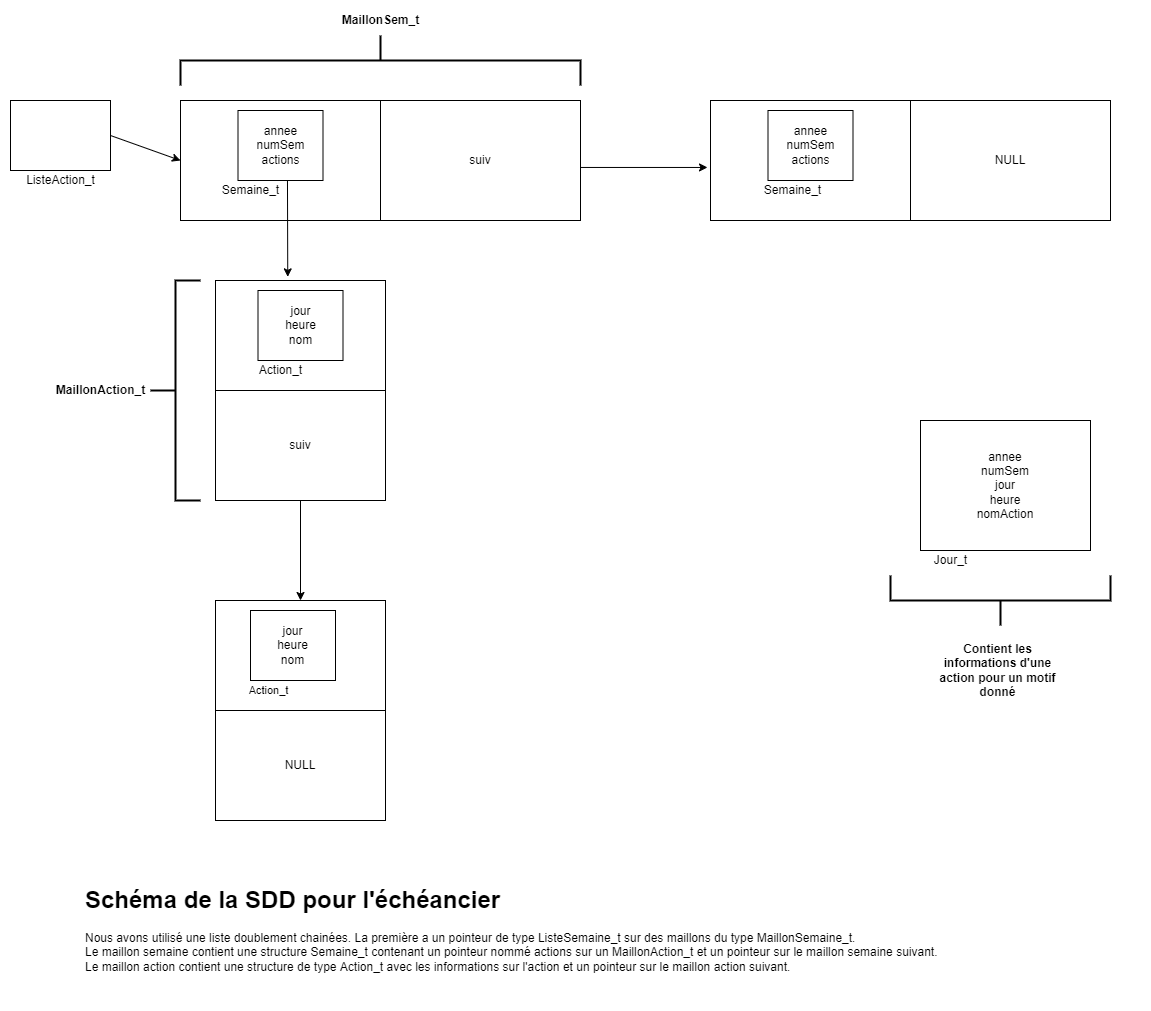
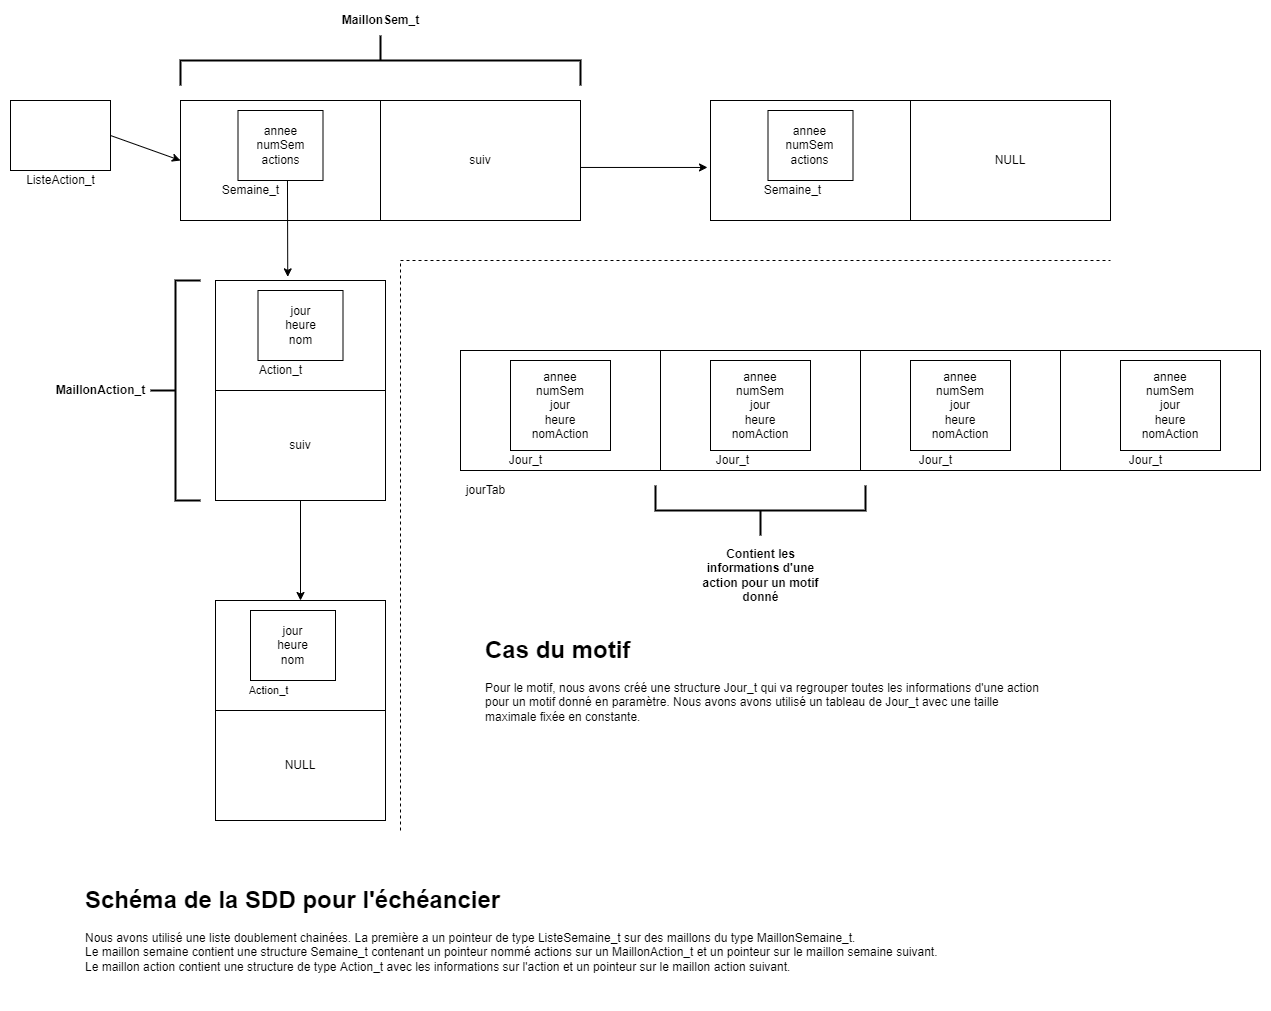
ajout test, fonction suppMaillonSemaine + schemas

diff --git a/test.c b/test.c
@@ -1,0 +1,122 @@
+/**
+ * @file test.c
+ * @author Paul BONHOMME & Rime LAMRANI (paul.bonhomme@etu.uca.fr & rime.lamrani@etu.uca.fr)
+ * @brief fichier .c : fonction de test complet du projet
+ * @version 0.1
+ * @date 2022-03-03
+ * 
+ * @copyright Copyright (c) 2022
+ * 
+ */
+
+#include "jour.h"
+
+void mainTest(ListeSem_t liste)
+{
+	int        nbJour, jourASupp; // choix de l'utilisateur, nombre de jour trouvé pour un motif donné et jour à supprimer
+    char       motif[11], anneeASupp[11], numSemASupp[3], heureASupp[3]; // motif donné par l'utilisateur, Annee a supprimer, numero de semaine a supprimer, heure a supprimer
+
+    Jour_t     jourTab[MAX_JOUR], * finJourTab; // initialisation tableau de jours statique et pointeur de fin
+
+    finJourTab = &jourTab[MAX_JOUR]; // affectation du pointeur de fin du tableau de jour
+
+    printf("\n\n═════════════════════INITIALISATION ET LECTURE DU FICHIER═════════════════════\n");
+
+    printf("\nAppuyez sur entrée pour afficher la liste des semaines\n");
+    getchar();
+	while( getchar() != '\n' );
+
+	printf("\n\n═════════════════════AFFICHAGE DE LA LISTE DES SEMAINES═════════════════════\n");
+    afficherListeSem(liste);
+
+	printf("\n\n═════════════════════SUPPRESSION DE DEUX ACTIONS═════════════════════\n");
+    printf("\nNous allons supprimer le tp de physique et le tp de systeme de la liste puis afficher la liste à nouveau\n");
+
+    printf("Appuyer sur entrée pour supprimer : \n");
+	while( getchar() != '\n' );
+
+	// PREMIERE ACTION
+	strcpy(anneeASupp, "2023"); // TP de physique
+	strcpy(numSemASupp, "05");
+	jourASupp = 3;
+	strcpy(heureASupp, "02");
+
+	if(supprimerAction(liste, anneeASupp, numSemASupp, jourASupp, heureASupp))
+    {
+        liste = supprimerMaillonSemaine(liste, anneeASupp, numSemASupp);
+    }
+
+    // DEUXIEME ACTION
+	strcpy(anneeASupp, "2019"); // TP de systeme
+	strcpy(numSemASupp, "06");
+	jourASupp = 1;
+	strcpy(heureASupp, "08");
+
+	if(supprimerAction(liste, anneeASupp, numSemASupp, jourASupp, heureASupp))
+    {
+        liste = supprimerMaillonSemaine(liste, anneeASupp, numSemASupp);
+    }
+
+	afficherListeSem(liste);
+	printf("\nNous pouvons voir que les deux actions ont bien été supprimées de la liste\n");
+	printf("De plus, on voit que la semaine 06 de 2019 a été supprimée de la liste car elle ne contenait plus d'action\n");
+
+	printf("\n\n═════════════════════AFFICHAGE JOUR AVEC MOTIF═════════════════════\n");
+	printf("\nNous allons maintenant afficher les actions contenant un motif, nous choisissons le motif \"C\", nous devrions avoir TP de C et TP de C++\n");
+	printf("Appuyer sur entrée pour afficher le tableau de jours au motif \"C\" :\n");
+	while( getchar() != '\n' );
+
+	// MOTIF "C"
+	strcpy(motif, "C");
+	nbJour = tableauParMotif(motif, liste, jourTab, finJourTab);
+	afficherTableauParMotif(jourTab, motif, nbJour);
+
+	printf("Nous voulons le motif \"TP\", nous en aurons 7 au maximum car nous venons de  supprimer les TP de physique et de systeme \n");
+	printf("Appuyer sur entrée pour afficher le tableau de jours au motif \"TP\" : \n");
+	while( getchar() != '\n' );
+
+	// MOTIF "TP"
+	strcpy(motif, "TP");
+	nbJour = tableauParMotif(motif, liste, jourTab, finJourTab);
+	afficherTableauParMotif(jourTab, motif, nbJour);
+
+	printf("\n\n═════════════════════SAUVEGARDE DANS UN FICHIER═════════════════════\n");
+	printf("\nNous allons maintenant sauvegarder les données dans le fichier \"sauvegarde.txt\"\n");
+	printf("Appuyer sur entrée pour sauvegarder : \n");
+	while( getchar() != '\n' );
+
+
+	sauvegarder("sauvegarde.txt", liste); // SAUVEGARDE
+	printf("\nOn remarque que les lignes pour le TP de physique et le TP de systeme ne sont pas présentes.\nOuvrez le fichier de sauvegarde pour vérifier et cliquez sur entrée pour continuer.\n");
+	while( getchar() != '\n' );
+
+	printf("\n\n═════════════════════CAS D'ERREURS═════════════════════\n");
+	printf("\nNous allons maintenant tester différents cas d'erreurs.\n");
+
+	printf("\nCas où aucune action ne contient un motif donné :\n");
+	printf("Appuyer sur entrée pour afficher le tableau de jours au motif \"test_err\" :\n");
+	while( getchar() != '\n' );
+	strcpy(motif, "test_err");
+	nbJour = tableauParMotif(motif, liste, jourTab, finJourTab);
+	afficherTableauParMotif(jourTab, motif, nbJour);
+
+
+	printf("\nCas où l'action de l'année 2048 à supprimer n'existe pas : \n");
+	printf("Appuyer sur entrée pour continuer : \n");
+	while( getchar() != '\n' );
+
+	strcpy(anneeASupp, "2048"); // Action inexistante
+	strcpy(numSemASupp, "06");
+	jourASupp = 1;
+	strcpy(heureASupp, "08");
+
+	if(supprimerAction(liste, anneeASupp, numSemASupp, jourASupp, heureASupp))
+    {
+        liste = supprimerMaillonSemaine(liste, anneeASupp, numSemASupp);
+    }
+	printf("\nOn peut voir que l'action a été detectée comme inexistante par l'algorithme.\n");
+
+	printf("\n\n═════════════════════FIN DE LA SERIE DE TEST═════════════════════\n");
+	libererSemaines(liste);
+
+}

diff --git a/semaine.c b/semaine.c
@@ -282,8 +282,10 @@ heure : heure de l'action a supprimer ;
 En sortie: void
 
  -------------------------------------------------------------------- */
-void supprimerAction(ListeSem_t liste, char* annee, char* numSem, int jour, char* heure)
+Boolen_t supprimerAction(ListeSem_t liste, char* annee, char* numSem, int jour, char* heure)
 {   
+    Boolen_t listeActionVide = faux; // permet de savoir si l'action a été supprimée quand on parcours la liste
+
     if(rechSemaineAction(liste, annee, numSem, jour, heure)) // si l'action existe dans la liste
     {
         while(liste!=NULL)
@@ -291,14 +293,17 @@ void supprimerAction(ListeSem_t liste, char* annee, char* numSem, int jour, char
             if(strcmp((liste->semaine).annee, annee) == 0 && strcmp((liste->semaine).numSem, numSem) == 0) // si on trouve la semaine voulue
             {
                 (liste->semaine).actions = supprimerMaillonAction((liste->semaine).actions, jour, heure); // suppression de l'action dans la liste d'actions
+                listeActionVide = videListeAction((liste->semaine).actions); // si la liste des actions est vide après suppression on notifie que l'on doit supprimer la semaine de la liste
             }
-            liste=liste->suiv;
+            liste = liste->suiv;
         }
-        printf("La suppression a ete effectuee");
+        printf("La suppression a ete effectuee\n");
     }
     else{
-        printf("L'action a supprimer n'existe pas");
+        printf("L'action a supprimer n'existe pas\n");
     }
+
+    return listeActionVide;
 }
 
 /* --------------------------------------------------------------------
@@ -320,6 +325,36 @@ ListeSem_t supprimerEnTeteSemaine(ListeSem_t liste)
     maillonSemTemp = liste; // recuperation de la semaine en tête de liste
     liste = liste->suiv; // on avance la liste sur le maillon suivant
     free(maillonSemTemp); // on libere le maillon en tete
+    return liste;
+}
+
+/* --------------------------------------------------------------------
+supprimerMaillonSemaine : Supprime la semaine en fonction de l'année et du numéro de semaine
+ 
+En entrée: 
+liste : la liste des actions ; 
+annee : annee de la semaine ; 
+heure : numero de la semaine ;
+
+En sortie: La liste avec l'element supprimé ou non
+
+ -------------------------------------------------------------------- */
+ListeSem_t supprimerMaillonSemaine(ListeSem_t liste, char* annee, char* numSem)
+{   
+    Semaine_t semaineTemp;
+
+    if(videListeSem(liste)) // si la liste est vide, on retourne la liste
+        return liste;
+
+    semaineTemp = tete(liste);
+    if(semaineTemp.annee > annee) // si l'annee en tete est > a l'annee voulue -> semaine pas dans la liste
+        return liste;
+    if(strcmp(semaineTemp.annee, annee) && strcmp(semaineTemp.numSem, numSem) > 0) // si le jour en tete est = au jour voulu et l'heure > -> action pas dans la liste
+        return liste;
+    if(strcmp(semaineTemp.annee, annee) == 0 && strcmp(semaineTemp.numSem, numSem) == 0) // si la tete vaut la semaine voulue
+        return supprimerEnTeteSemaine(liste); // on la supprime
+
+    liste->suiv=supprimerMaillonSemaine(liste->suiv, annee, numSem); // appel recursif
     return liste;
 }
 

diff --git a/main.c b/main.c
@@ -24,7 +24,9 @@ void affichMenu(void)
     printf("\t║                                                                           ║\n");
     printf("\t║\t4- Suppression d'une action                                         ║\n");
     printf("\t║                                                                           ║\n");
-    printf("\t║\t5- Quitter                                                          ║\n");
+    printf("\t║\t5- Lancer la série de tests                                         ║\n");
+    printf("\t║                                                                           ║\n");
+    printf("\t║\t6- Quitter                                                          ║\n");
     printf("\t║                                                                           ║\n");
     printf("\t╚═══════════════════════════════════════════════════════════════════════════╝\n\n");
 }
@@ -48,10 +50,9 @@ void menu(char* nomFichier){
             printf("Tapez votre choix :\n");
             scanf("%d",&choix);
             getchar();
-
         }
 
-    while(choix>0 && choix<6)
+    while(choix>0 && choix<7)
     {
         switch(choix)
         {
@@ -87,9 +88,15 @@ void menu(char* nomFichier){
                 printf("Donnez l'heure de l'action à supprimer :\n");
                 scanf("%s", heureASupp);
 
-                supprimerAction(liste, anneeASupp, numSemASupp, jourASupp, heureASupp);
+                if(supprimerAction(liste, anneeASupp, numSemASupp, jourASupp, heureASupp)) // si la semaine contenant l'action à supprimer ne contient plus d'action 
+                {
+                    liste = supprimerMaillonSemaine(liste, anneeASupp, numSemASupp); // on supprime cette semaine vide de la liste
+                }
                 break;
             case 5:
+                mainTest(liste);
+                break;
+            case 6:
                 libererSemaines(liste);
                 exit(0);
                 break;

diff --git a/jour.c b/jour.c
@@ -67,12 +67,17 @@ En sortie: void
 void afficherTableauParMotif(Jour_t jourTab[], char* motif, int nbJour)
 {
 	int i = 0;
-	printf("Liste des jours contenant le motif : %s\n", motif);
-	printf("nbJour : %d\n", nbJour);
-	for(i = 0; i < nbJour; i++)
+	if(nbJour != 0)
 	{
+		printf("Liste des jours contenant le motif : \"%s\"\n", motif);
+		printf("nbJour : %d\n", nbJour);
+		for(i = 0; i < nbJour; i++)
+		{
+			printf("\n┈┈┈┈┈┈┈┈┈┈┈┈┈┈┈┈┈┈┈┈┈┈┈┈┈┈┈┈┈┈┈┈┈┈┈┈┈┈┈┈┈┈┈┈┈┈┈┈┈┈┈┈┈┈┈┈┈┈\n");
+    		printf("\nNom de l\'action : %s\nAnnee : %s\t Semaine : %s\t Jour : %d\t Heure : %s\n",jourTab[i].nomAction, jourTab[i].annee, jourTab[i].numSem, jourTab[i].jour, jourTab[i].heure);
+		}
 		printf("\n┈┈┈┈┈┈┈┈┈┈┈┈┈┈┈┈┈┈┈┈┈┈┈┈┈┈┈┈┈┈┈┈┈┈┈┈┈┈┈┈┈┈┈┈┈┈┈┈┈┈┈┈┈┈┈┈┈┈\n");
-    	printf("\nNom de l\'action : %s\nAnnee : %s\t Semaine : %s\t Jour : %d\t Heure : %s\n",jourTab[i].nomAction, jourTab[i].annee, jourTab[i].numSem, jourTab[i].jour, jourTab[i].heure);
 	}
-	printf("\n┈┈┈┈┈┈┈┈┈┈┈┈┈┈┈┈┈┈┈┈┈┈┈┈┈┈┈┈┈┈┈┈┈┈┈┈┈┈┈┈┈┈┈┈┈┈┈┈┈┈┈┈┈┈┈┈┈┈\n");
+	else
+		printf("Aucune action contenant le motif \"%s\"\n", motif);
 }

diff --git a/semaine.h b/semaine.h
@@ -39,17 +39,18 @@ Semaine_t  tete(ListeSem_t liste);
 ListeSem_t insererEnTete(ListeSem_t liste, Semaine_t s);
 ListeSem_t inserer(ListeSem_t liste, Semaine_t sem);
 
-void afficherSemaine(Semaine_t sem);
-void afficherListeSem(ListeSem_t liste);
+void       afficherSemaine(Semaine_t sem);
+void       afficherListeSem(ListeSem_t liste);
 
 Semaine_t  lireSemaine (FILE *flot);
 ListeSem_t chargeSemaine (char* nomFichier, ListeSem_t liste);
 
-void sauvegarder(char* nomFichier, ListeSem_t listeSemaines);
+void       sauvegarder(char* nomFichier, ListeSem_t listeSemaines);
 
-Boolen_t rechSemaineAction(ListeSem_t liste, char annee[], char sem[], int jour, char heure[]);
-void supprimerAction(ListeSem_t liste, char* annee, char* numSem, int jour, char* heure);
+Boolen_t   rechSemaineAction(ListeSem_t liste, char annee[], char sem[], int jour, char heure[]);
+Boolen_t   supprimerAction(ListeSem_t liste, char* annee, char* numSem, int jour, char* heure);
 
 ListeSem_t supprimerEnTeteSemaine(ListeSem_t liste);
-void libererSemaines(ListeSem_t liste);
+ListeSem_t supprimerMaillonSemaine(ListeSem_t liste, char* annee, char* numSem);
+void       libererSemaines(ListeSem_t liste);
 // -------------------------------------------------------------------------------

diff --git a/action.h b/action.h
@@ -43,14 +43,14 @@ Action_t      teteAction(ListeAction_t liste);
 ListeAction_t insererEnTeteAction(ListeAction_t liste, Action_t a);
 ListeAction_t insererAction(ListeAction_t liste, Action_t a);
 
-void afficherAction(Action_t act);
-void afficherListeActions(ListeAction_t liste);
+void          afficherAction(Action_t act);
+void          afficherListeActions(ListeAction_t liste);
 
-void sauvegarderAction(FILE *flot, ListeAction_t liste, char* anneeSem, char* numSem);
+void          sauvegarderAction(FILE *flot, ListeAction_t liste, char* anneeSem, char* numSem);
 
-Boolen_t rechAction(ListeAction_t liste, int jour, char heure[]);
+Boolen_t      rechAction(ListeAction_t liste, int jour, char heure[]);
 ListeAction_t supprimerEnTeteAction(ListeAction_t liste);
 ListeAction_t supprimerMaillonAction(ListeAction_t liste, int jour, char* heure);
 
-void libererActions(ListeAction_t liste);
+void          libererActions(ListeAction_t liste);
 // -------------------------------------------------------------------------------

diff --git a/jour.h b/jour.h
@@ -32,7 +32,9 @@ typedef struct
 
 // ------------------FONCTIONS JOURS-------------------------------------
 
-int tableauParMotif(char* motif, ListeSem_t listeSemaines, Jour_t jourTab[], Jour_t *finJourTab);
+int  tableauParMotif(char* motif, ListeSem_t listeSemaines, Jour_t jourTab[], Jour_t *finJourTab);
 void afficherTableauParMotif(Jour_t jourTab[], char* motif, int nbJour);
 
-// -------------------------------------------------------------------------------
+// ---------------------FONCTIONS DE TEST----------------------------------------------------------
+
+void mainTest(ListeSem_t liste);

diff --git a/README.md b/README.md
@@ -40,6 +40,7 @@ Pour afficher les semaines et les actions : tapez 1.
 Pour sauvegarder les listes dans le fichier "sauvegarde.txt" : tapez 2.  
 Pour afficher tous les jours dont le nom de l'action contient un motif précis : tapez 3 et donnez le motif.  
 Pour supprimer une action : tapez 4 et donnez les informations de l'action à supprimer.	 
+Pour lancer la série de test : tapez 5.  
 
 ## Langages utilisés ?
 
